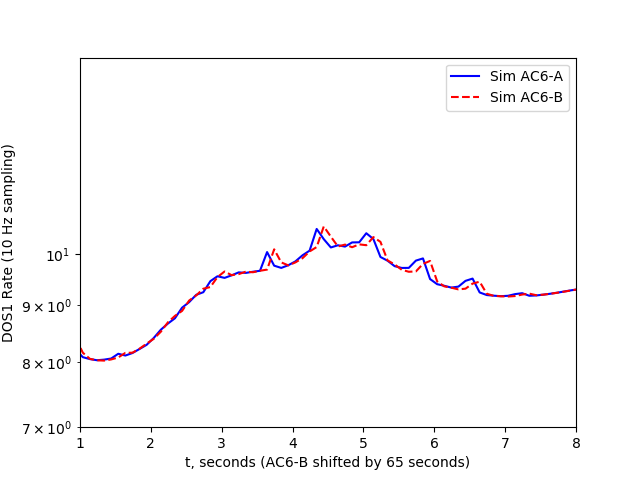
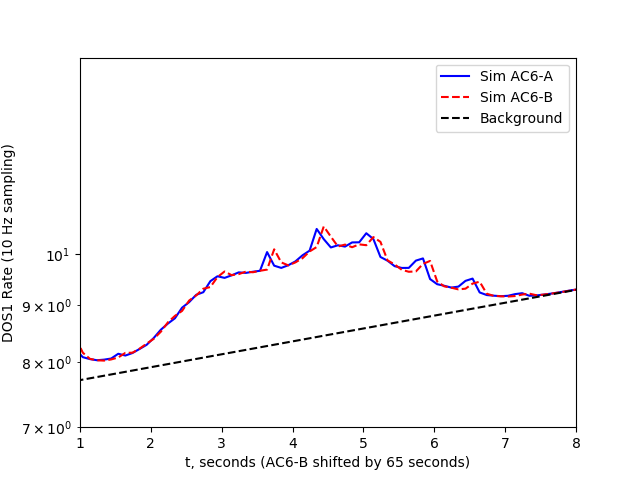
figure format changes in response to reviewer comments

diff --git a/scene-real.py b/scene-real.py
@@ -110,7 +110,7 @@ for (ac6,it,color) in [(ac6a_real,ita,'b'),(ac6b_real,itb,'r')]:
 ac6a = {}
 ac6b = {}
 for (fast,real,it) in [(ac6a,ac6a_real,ita),(ac6b,ac6b_real,itb)]:
-    fast['t'] = np.linspace(real['t'][0],real['t'][-1],(real['t'][-1]-real['t'][0])*oversample+1)
+    fast['t'] = np.linspace(real['t'][0],real['t'][-1],int((real['t'][-1]-real['t'][0])*oversample+1))
     for key in ['alt','lat','lon']:
         fast[key] = interp1d(real['t'],real[key][it])(fast['t'])
     for key in ['x','y','z','L','theta','phi','Xeq','Yeq']:
@@ -412,10 +412,11 @@ for (low,fake,res) in [(fa10Hz,fac6a,fresulta),(fb10Hz,fac6b,fresultb)]:
     low['raw'] = ConvMean(res['rate'],1-tenHz//2,tenHz//2)[tenHz//2::tenHz]
     low['rate'] = low['raw'] + bg_func(low['L'])   
 
-#%
+#%%
 plt.figure()
 plt.semilogy(fa1sec['t'],fa1sec['rate'],'-',label='Sim AC6-A',color='b')
 plt.semilogy(fb1sec['t']-time_shift,fb1sec['rate'],'--',label='Sim AC6-B',color='r')
+plt.semilogy(fa1sec['t'],bg_func(fa1sec['L']),'k--',label='Background') # evaluate on dipole L, plot on time
 plt.xlabel('t, seconds (AC6-B shifted by %g seconds)' % time_shift)
 plt.ylabel('DOS1 Rate (1 Hz sampling)')
 plt.legend()
@@ -425,6 +426,7 @@ plt.savefig('figures/scene-real-fake-vs-time-%s.png' % source_method)
 plt.figure()
 plt.semilogy(fa10Hz['t'],fa10Hz['rate'],'-',label='Sim AC6-A',color='b')
 plt.semilogy(fb10Hz['t']-time_shift,fb10Hz['rate'],'--',label='Sim AC6-B',color='r')
+plt.semilogy(fa10Hz['t'],bg_func(fa10Hz['L']),'k--',label='Background') # evaluate on dipole L, plot on time
 plt.xlabel('t, seconds (AC6-B shifted by %g seconds)' % time_shift)
 plt.ylabel('DOS1 Rate (10 Hz sampling)')
 plt.legend()
@@ -434,6 +436,8 @@ plt.savefig('figures/scene-real-fake-vs-time-10Hz-%s.png' % source_method)
 plt.figure()
 plt.semilogy(fa10Hz['t'],fa10Hz['rate'],'-',label='Sim AC6-A',color='b')
 plt.semilogy(fb10Hz['t']-time_shift,fb10Hz['rate'],'--',label='Sim AC6-B',color='r')
+plt.semilogy(fa10Hz['t'],bg_func(fa10Hz['L']),'k--',label='Background') # evaluate on dipole L, plot on time
+
 plt.xlabel('t, seconds (AC6-B shifted by %g seconds)' % time_shift)
 plt.ylabel('DOS1 Rate (10 Hz sampling)')
 if source_method == 'RATES':

diff --git a/scene2.py b/scene2.py
@@ -71,13 +71,25 @@ for (iphi0,phi0_deg) in enumerate(PHI0_DEG):
 
 allregions = [region for sublist in sources for region in sublist] # flatten list of lists
     
-plot_scene(ac6a,allregions,min_L=L0s[0]-0.5,max_L=L0s[-1]+0.5)
-plt.title('All Source Regions')
+# %% make all-source plots
+fs = 20 # font size
+plot_scene(ac6a,allregions,min_L=L0s[0]-0.05,max_L=L0s[-1]+0.05)
+# No title
+# clear axis labels
+plt.xlabel('')
+plt.ylabel('')
+# enlarge tick marks
+xticks = plt.xticks()[0]
+plt.xticks(xticks[::2],fontsize=fs) # sparsers x ticks
+plt.yticks(fontsize=fs)
 plt.savefig('figures/scene2-scene')
 
-iLa = (ac6a['L']>=L0s[0]-0.025) & (ac6a['L']<=L0s[-1]+0.125)
-iLb = (ac6b['L']>=L0s[0]-0.025) & (ac6b['L']<=L0s[-1]+0.125)
-plt.figure()
+
+iLa = (ac6a['L']>=L0s[0]-0.025) & (ac6a['L']<=L0s[-1]+0.06)
+iLb = (ac6b['L']>=L0s[0]-0.025) & (ac6b['L']<=L0s[-1]+0.06)
+fig = plt.figure()
+wh = fig.get_size_inches()
+fig.set_size_inches([wh[0]*2,wh[1]])
 for (iphi0,phi0_deg) in enumerate(PHI0_DEG):
     plt.plot(ac6a['t'][iLa],doseratea[iphi0][iLa],'-',label='AC6-A,${\phi}_s=%g^o$' % phi0_deg,color=colors[iphi0])
     plt.plot(ac6b['t'][iLb]-time_shift,doserateb[iphi0][iLb],'--',label='AC6-B,${\phi}_s=%g^o$' % phi0_deg,color=colors[iphi0])
@@ -89,5 +101,5 @@ hss[0].set_label('$c_{ss}$') # set label on last one only
 
 plt.xlabel('t, seconds (AC6-B shifted by %g seconds)' % time_shift)
 plt.ylabel('DOS1 rate')
-plt.legend(fontsize='small')
+plt.legend(fontsize='medium')
 plt.savefig('figures/scene2-rates')

diff --git a/scene1.py b/scene1.py
@@ -73,7 +73,7 @@ for (iphi0,phi0_deg) in enumerate(PHI0_DEG):
     sources[iphi0] = region
 
 #%%    
-plot_scene(ac6a,sources,min_L=L0-0.5,max_L=L0+0.5)
+plot_scene(ac6a,sources,min_L=L0-0.1,max_L=L0+0.1)
 plt.title('All Source Regions')
 plt.savefig('figures/scene1-scene')
 
@@ -94,7 +94,7 @@ hss[0].set_label('$c_{ss}$') # set label on last one only
 
 plt.xlabel('t, seconds (AC6-B shifted by %g seconds)' % time_shift)
 plt.ylabel('DOS1 rate')
-plt.legend(fontsize='small')
+plt.legend(fontsize='medium')
 plt.savefig('figures/scene1-rates')
 
 # note: s/c transit time across a 75 km source at L=5 is about 1.1 seconds

diff --git a/dipole_tracer.py b/dipole_tracer.py
@@ -1124,7 +1124,7 @@ def fake_ac6(L1,L2,t0=0.0,dt=0.1,lon=0.0,alt=600):
     lat1 = np.degrees(np.arccos((L1*akm/R)**-0.5))
     lat2 = np.degrees(np.arccos((L2*akm/R)**-0.5))
     ac6 = {}
-    ac6['lat'] = np.linspace(lat1,lat2,np.ceil(np.abs(lat2-lat1)/dlatdt/dt))
+    ac6['lat'] = np.linspace(lat1,lat2,int(np.ceil(np.abs(lat2-lat1)/dlatdt/dt)))
     ac6['t']= t0+(ac6['lat']-lat1)/dlatdt
     ac6['lon'] = np.zeros(ac6['t'].shape)+lon
     ac6['alt'] = np.zeros(ac6['t'].shape)+alt

diff --git a/scene-rs.py b/scene-rs.py
@@ -5,8 +5,6 @@ source regions at various distances from ac6 and multiple rs
 Different pulse radii at each L
 ac6b ~60 seconds behind ac6b
 
-Contributors: Colby Lemon, Paul O'Brien
-
 """
 
 import json
